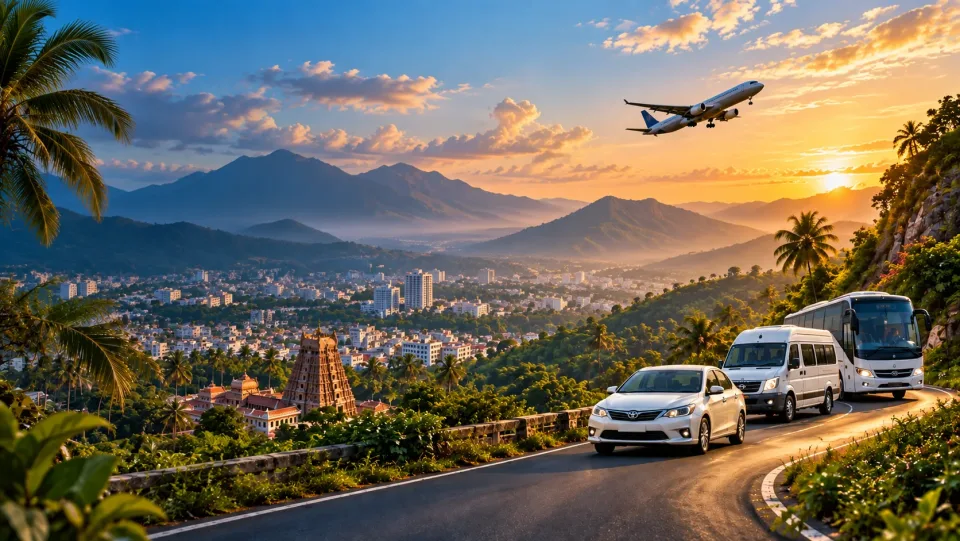
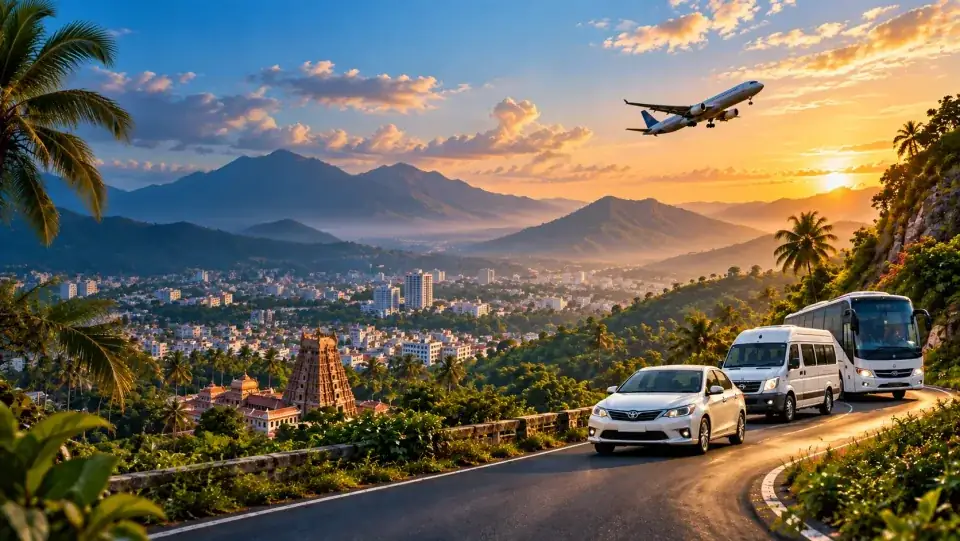
Fix SEOptimer audit: perfect heading hierarchy, optimize hero image, improve title/description keyword consistency

diff --git a/templates/includes/footer.html b/templates/includes/footer.html
@@ -25,7 +25,7 @@
 
             <!-- Column 2: Quick Links (BOTTOM -> TOP) -->
             <div class="col-lg-2 col-md-6 reveal-up">
-                <h5 class="fw-bold text-dark mb-3" style="font-size: 1rem;">Quick Links</h5>
+                <h4 class="fw-bold text-dark mb-3" style="font-size: 1rem;">Quick Links</h4>
                 <ul class="list-unstyled d-flex flex-column gap-2 small text-muted">
                     <li><a href="{% url 'home' %}" class="text-muted text-decoration-none hover-danger">Home</a></li>
                     <li><a href="{% url 'about' %}" class="text-muted text-decoration-none hover-danger">About</a></li>
@@ -41,7 +41,7 @@
 
             <!-- Column 3: Our Services (BOTTOM -> TOP) -->
             <div class="col-lg-2 col-md-6 reveal-up">
-                <h5 class="fw-bold text-dark mb-3" style="font-size: 1rem;">Our Services</h5>
+                <h4 class="fw-bold text-dark mb-3" style="font-size: 1rem;">Our Services</h4>
                 <ul class="list-unstyled d-flex flex-column gap-2 small text-muted">
                     <li><a href="{% url 'local_cab_service' %}" class="text-muted text-decoration-none hover-danger">Local Cab Service</a></li>
                     <li><a href="{% url 'outstation_tours' %}" class="text-muted text-decoration-none hover-danger">Outstation Tours</a></li>
@@ -54,7 +54,7 @@
 
             <!-- Column 4: Destinations (BOTTOM -> TOP) -->
             <div class="col-lg-2 col-md-6 reveal-up">
-                <h5 class="fw-bold text-dark mb-3" style="font-size: 1rem;">Destinations</h5>
+                <h4 class="fw-bold text-dark mb-3" style="font-size: 1rem;">Destinations</h4>
                 <ul class="list-unstyled d-flex flex-column gap-2 small text-muted">
                     <li><a href="{% url 'tamil_nadu_view' %}" class="text-muted text-decoration-none hover-danger">Tamil Nadu</a></li>
                     <li><a href="{% url 'kerala_view' %}" class="text-muted text-decoration-none hover-danger">Kerala</a></li>
@@ -64,7 +64,7 @@
 
             <!-- Column 5: Contact Info (RIGHT -> CENTER) -->
             <div class="col-lg-3 col-md-6 reveal-right">
-                <h5 class="fw-bold text-dark mb-3" style="font-size: 1rem;">Contact Info</h5>
+                <h4 class="fw-bold text-dark mb-3" style="font-size: 1rem;">Contact Info</h4>
                 <ul class="list-unstyled d-flex flex-column gap-2 small text-muted">
                     <li class="d-flex align-items-center gap-2">
                         <i class="bi bi-telephone-fill text-danger"></i>

diff --git a/templates/website/home.html b/templates/website/home.html
@@ -2,10 +2,9 @@
 {% load static %}
 {% load vehicle_tags %}
 
-{% block meta_title %}Travel Agency in Coimbatore | Cab & Tempo Traveller
-{% endblock %}
+{% block meta_title %}Vibhu Travel Hub | Cab Rental, Tempo Traveller & Bus in Coimbatore{% endblock %}
 
-{% block meta_description %}Book cabs, tempo travellers & buses in Coimbatore with upfront pricing — no hidden fares. 5+ years, 24/7 WhatsApp booking.{% endblock %}
+{% block meta_description %}Vibhu Travel Hub offers outstation cabs, tempo traveller, bus rental & tour packages from Coimbatore across Tamil Nadu, Kerala & Karnataka with professional drivers.{% endblock %}
 {% block keywords %}travel agency Coimbatore, travel companies in Coimbatore, tours and travels Coimbatore, tour operator Coimbatore, tour packages Coimbatore, Coimbatore travel packages, Coimbatore trip packages, Coimbatore holiday packages, travel agent Coimbatore, travel services Coimbatore, tourist services Coimbatore, outstation travel agency Coimbatore, South India tour packages from Coimbatore, family tour packages from Coimbatore, group tour packages Coimbatore, corporate travel service Coimbatore, pilgrimage tour packages Coimbatore
 travel, Karnataka travel, tempo traveller rental{% endblock %}
 
@@ -1705,7 +1704,7 @@ customized travel services across Tamil Nadu, Kerala and Karnataka.{% endblock %
     <div class="modal-dialog modal-dialog-centered modal-lg">
         <div class="modal-content rounded-4 border-0 shadow-lg overflow-hidden">
             <div class="modal-header bg-dark text-white border-0 px-4 py-3">
-                <h5 class="modal-title fw-bold d-flex align-items-center gap-2" id="vehicleDetailsModalLabel">
+                <h4 class="modal-title fw-bold d-flex align-items-center gap-2" id="vehicleDetailsModalLabel">
                     <i class="bi bi-car-front-fill text-danger fs-4"></i> <span id="vModalTitle">Vehicle Details</span>
                 </h5>
                 <button type="button" class="btn-close btn-close-white" data-bs-dismiss="modal"

diff --git a/templates/includes/enquiry_modal.html b/templates/includes/enquiry_modal.html
@@ -8,7 +8,7 @@
             
             <div class="modal-header d-flex align-items-start justify-content-between">
                 <div>
-                    <h5 class="modal-title" id="enquiryModalLabel">Book Your <span>Cab & Travel</span></h5>
+                    <h4 class="modal-title" id="enquiryModalLabel">Book Your <span>Cab & Travel</span></h4>
                     <span class="modal-subtitle text-muted d-block">Plan your journey with Vibhu Travel Hub</span>
                 </div>
                 <button type="button" class="btn-close ms-auto" data-bs-dismiss="modal" aria-label="Close"></button>
